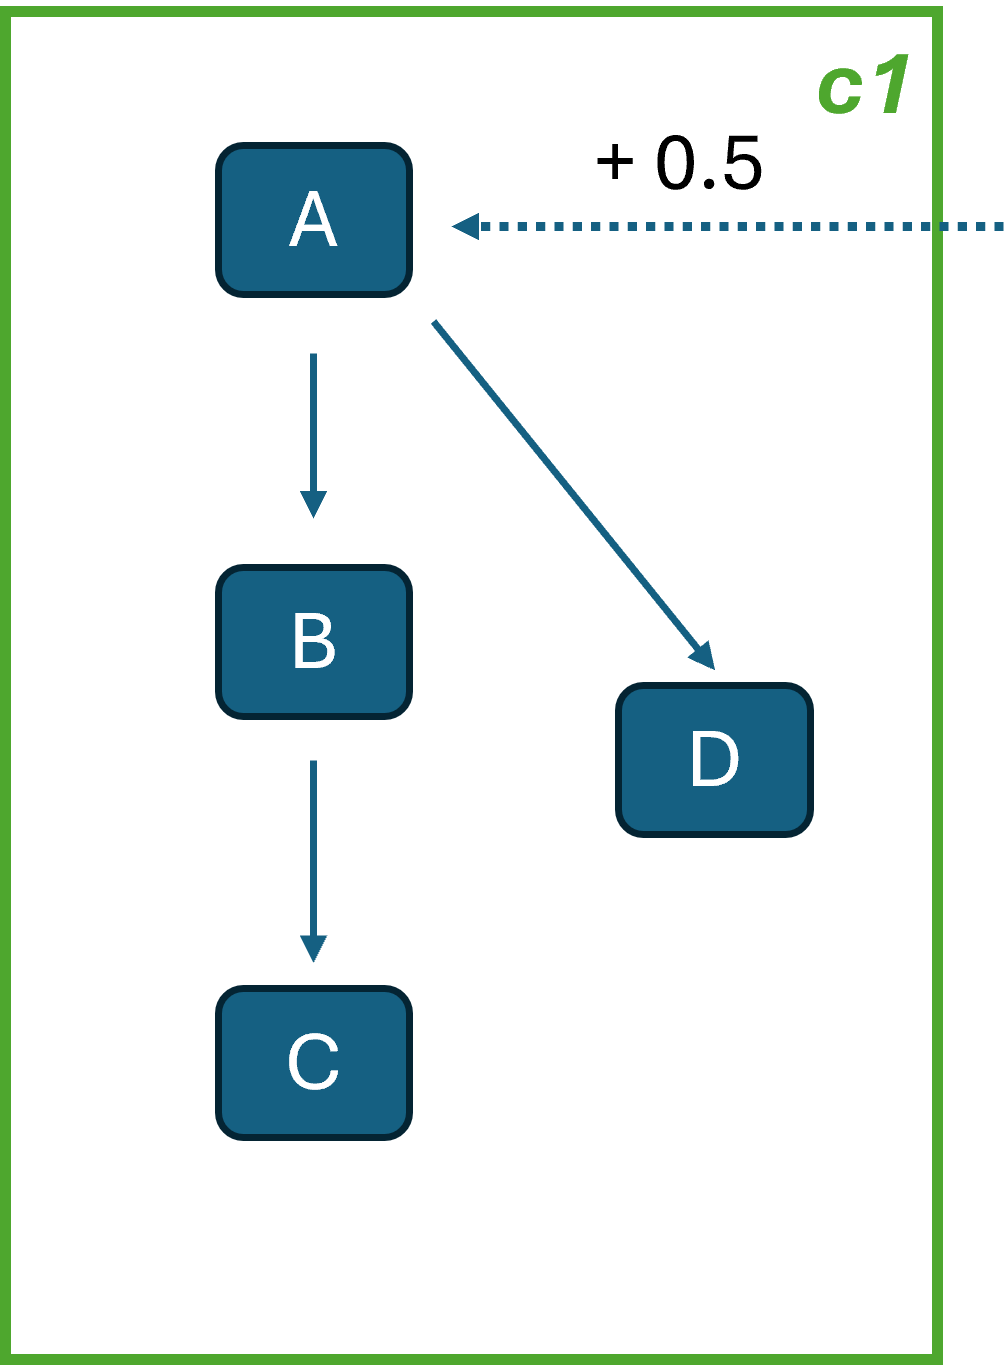
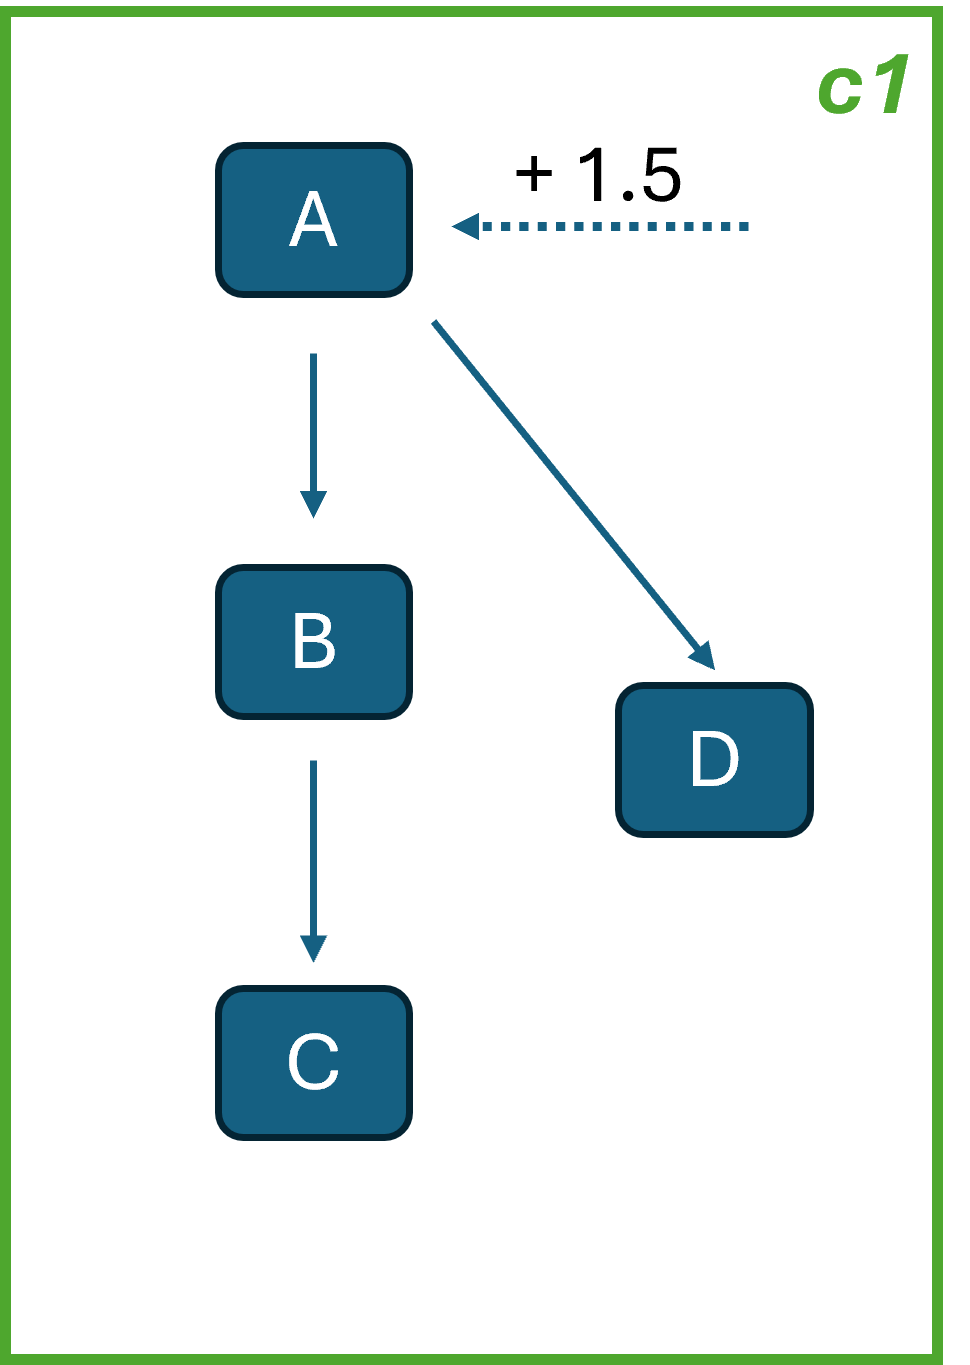
update tutorial slides

diff --git a/docs/index.md b/docs/index.md
@@ -9,11 +9,11 @@ hero:
         alt: Heta Project Logo
     actions:
         - theme: brand
-          text: Markdown Examples
-          link: /markdown-examples
+          text: QSPC2026 Workshop
+          link: /qspc2026/
         - theme: alt
-          text: API Examples
-          link: /api-examples
+          text: Quick Start
+          link: /quick-start
 features:
     - title: Feature A
       details: Lorem ipsum dolor sit amet, consectetur adipiscing elit

diff --git a/docs/quick-start.md b/docs/quick-start.md
@@ -14,7 +14,7 @@ Before you start, make sure you have [installed the following](/resources/ecosys
 
 __What we will build__
 
-In this quick start we create a **simple reaction model** and convert it to SBML, Simbiology, and Heta-Table format.
+In this quick start we create a **simple reaction model** and convert it to SBML, SimBiology, and Heta-Table format.
 
 ### Step 1
 